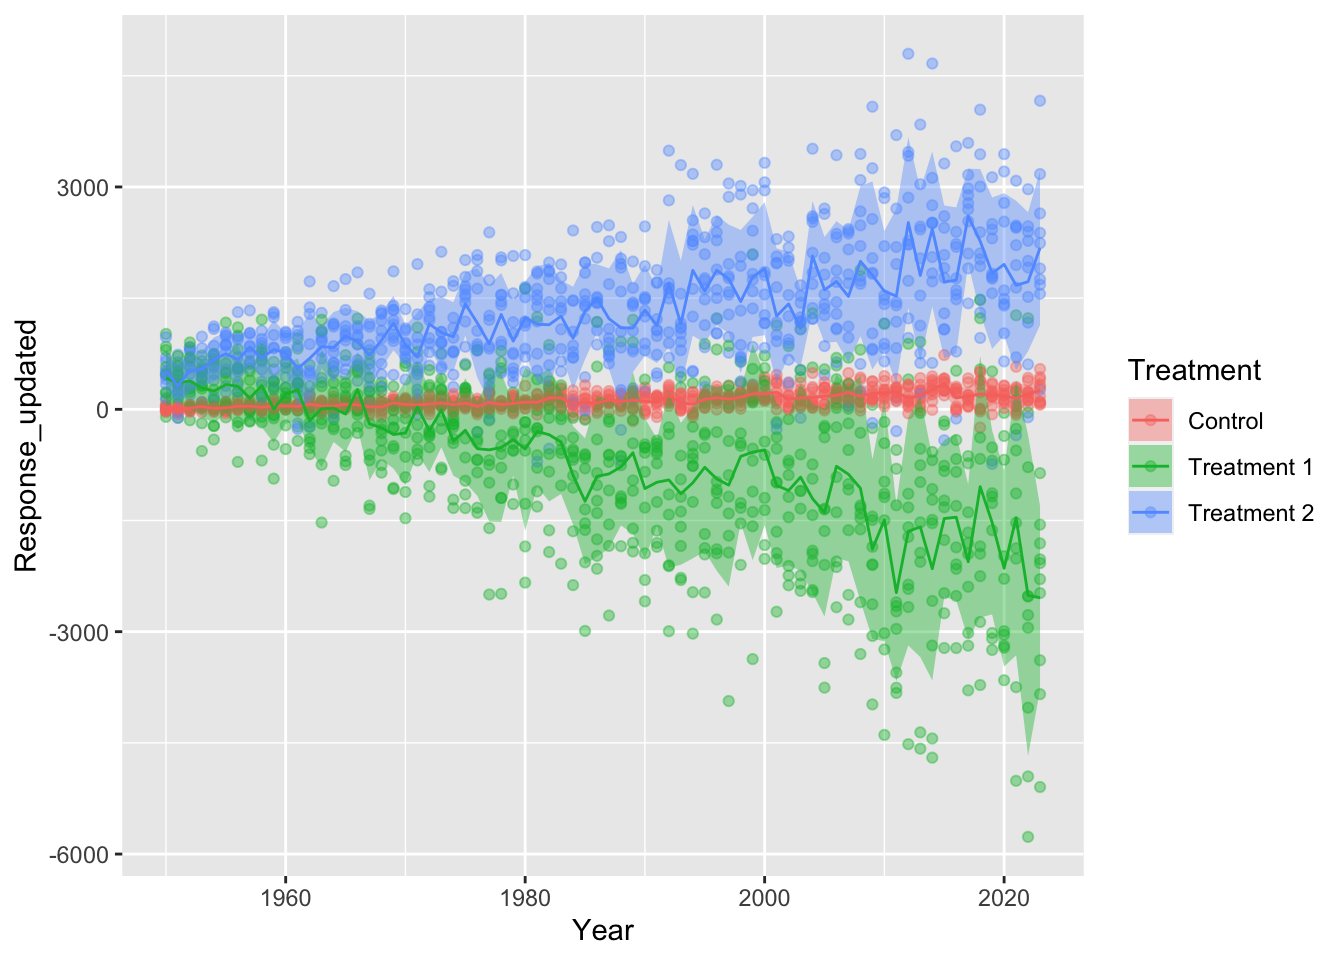
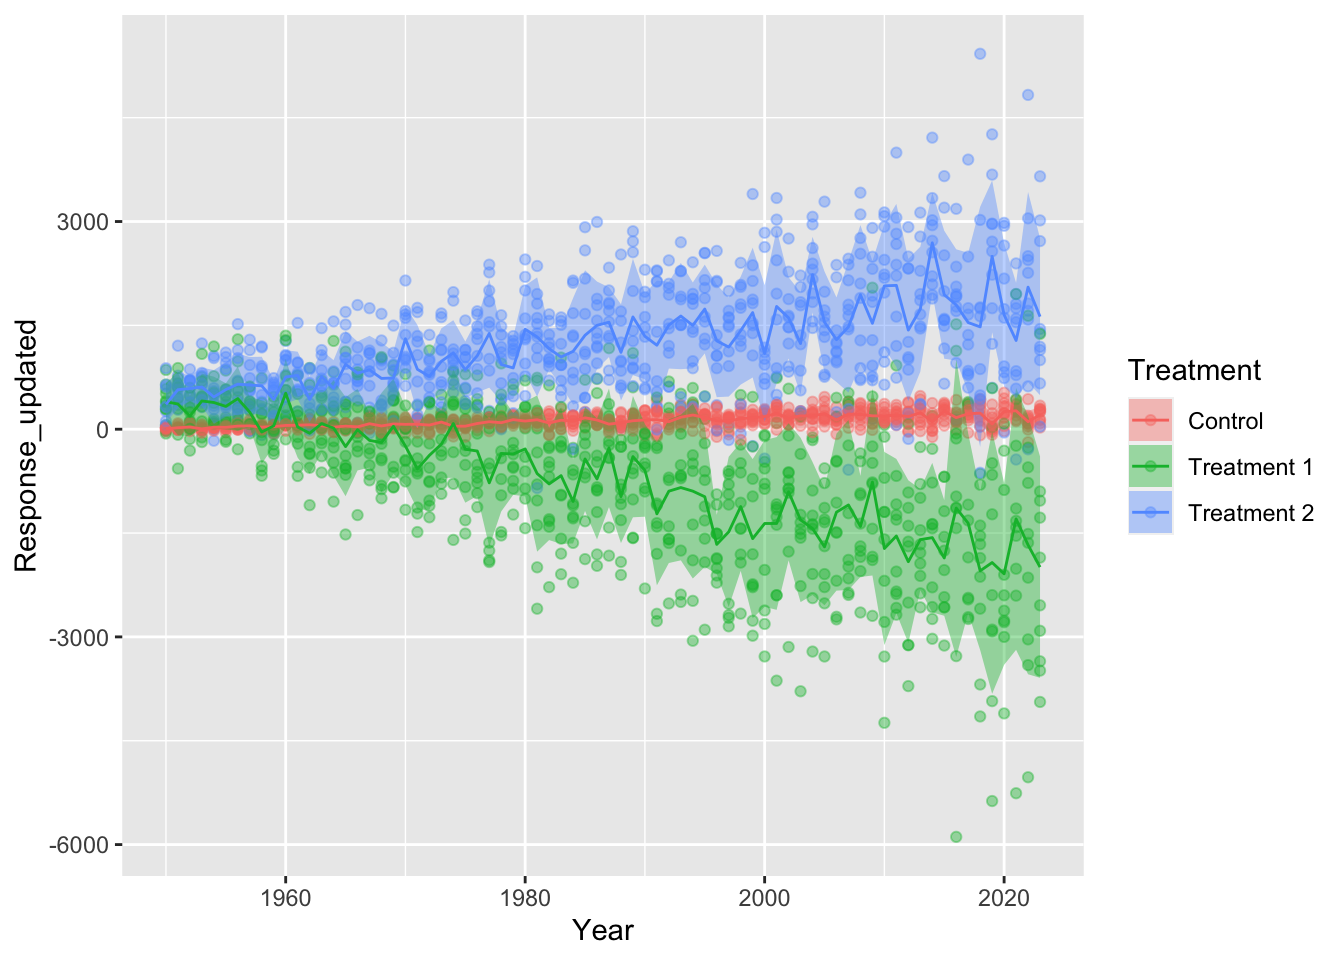
updating plotting

diff --git a/03_DataVisualisation.html b/03_DataVisualisation.html
@@ -2,7 +2,7 @@
 <html xmlns="http://www.w3.org/1999/xhtml" lang="en" xml:lang="en"><head>
 
 <meta charset="utf-8">
-<meta name="generator" content="quarto-1.3.433">
+<meta name="generator" content="quarto-1.3.450">
 
 <meta name="viewport" content="width=device-width, initial-scale=1.0, user-scalable=yes">
 
@@ -142,7 +142,11 @@ pre > code.sourceCode > span > a:first-child::before { text-decoration: underlin
 </div>
 <p>It automatically does a scatter plot, maybe we want to colour different treatments differently? and perhaps some axis labels that are more clear?</p>
 <div class="cell">
-<div class="sourceCode cell-code" id="cb4"><pre class="sourceCode r code-with-copy"><code class="sourceCode r"><span id="cb4-1"><a href="#cb4-1" aria-hidden="true" tabindex="-1"></a><span class="fu">plot</span>(<span class="at">x=</span>df<span class="sc">$</span>Year,<span class="at">y=</span>df<span class="sc">$</span>Response,<span class="at">col=</span>df<span class="sc">$</span>Treatment, <span class="at">xlab=</span><span class="st">"Year"</span>,<span class="at">ylab=</span><span class="st">"Response"</span>)</span></code><button title="Copy to Clipboard" class="code-copy-button"><i class="bi"></i></button></pre></div>
+<div class="sourceCode cell-code" id="cb4"><pre class="sourceCode r code-with-copy"><code class="sourceCode r"><span id="cb4-1"><a href="#cb4-1" aria-hidden="true" tabindex="-1"></a><span class="fu">plot</span>(<span class="at">x=</span>df<span class="sc">$</span>Year,</span>
+<span id="cb4-2"><a href="#cb4-2" aria-hidden="true" tabindex="-1"></a>     <span class="at">y=</span>df<span class="sc">$</span>Response,</span>
+<span id="cb4-3"><a href="#cb4-3" aria-hidden="true" tabindex="-1"></a>     <span class="at">col=</span>df<span class="sc">$</span>Treatment, </span>
+<span id="cb4-4"><a href="#cb4-4" aria-hidden="true" tabindex="-1"></a>     <span class="at">xlab=</span><span class="st">"Year"</span>,</span>
+<span id="cb4-5"><a href="#cb4-5" aria-hidden="true" tabindex="-1"></a>     <span class="at">ylab=</span><span class="st">"Response"</span>)</span></code><button title="Copy to Clipboard" class="code-copy-button"><i class="bi"></i></button></pre></div>
 <div class="cell-output-display">
 <p><img src="03_DataVisualisation_files/figure-html/unnamed-chunk-4-1.png" class="img-fluid" width="672"></p>
 </div>
@@ -152,21 +156,28 @@ pre > code.sourceCode > span > a:first-child::before { text-decoration: underlin
 <div class="cell">
 <div class="sourceCode cell-code" id="cb5"><pre class="sourceCode r code-with-copy"><code class="sourceCode r"><span id="cb5-1"><a href="#cb5-1" aria-hidden="true" tabindex="-1"></a>??<span class="fu">plot</span>()</span>
 <span id="cb5-2"><a href="#cb5-2" aria-hidden="true" tabindex="-1"></a></span>
-<span id="cb5-3"><a href="#cb5-3" aria-hidden="true" tabindex="-1"></a><span class="co"># plot is a common function name so we have to go to the base::plot() section of the help</span></span></code><button title="Copy to Clipboard" class="code-copy-button"><i class="bi"></i></button></pre></div>
+<span id="cb5-3"><a href="#cb5-3" aria-hidden="true" tabindex="-1"></a><span class="co"># plot is a common function name </span></span>
+<span id="cb5-4"><a href="#cb5-4" aria-hidden="true" tabindex="-1"></a><span class="co"># so we have to go to the base::plot() section of the help</span></span></code><button title="Copy to Clipboard" class="code-copy-button"><i class="bi"></i></button></pre></div>
 </div>
-<p>With the points coloured we should add a legend to the plot, this is accomplished with another function run after the plot function</p>
+<p>With the points coloured we should add a legend to the plot, this is accomplished with another function run after the plot function.</p>
 <div class="cell">
-<div class="sourceCode cell-code" id="cb6"><pre class="sourceCode r code-with-copy"><code class="sourceCode r"><span id="cb6-1"><a href="#cb6-1" aria-hidden="true" tabindex="-1"></a><span class="fu">plot</span>(<span class="at">x=</span>df<span class="sc">$</span>Year,<span class="at">y=</span>df<span class="sc">$</span>Response,<span class="at">col=</span><span class="fu">unique</span>(df<span class="sc">$</span>Treatment), <span class="at">xlab=</span><span class="st">"Year"</span>,<span class="at">ylab=</span><span class="st">"Response"</span>,<span class="at">pch=</span><span class="dv">19</span>)</span>
-<span id="cb6-2"><a href="#cb6-2" aria-hidden="true" tabindex="-1"></a><span class="fu">legend</span>(<span class="at">x =</span> <span class="st">"topright"</span>,          <span class="co"># Position</span></span>
-<span id="cb6-3"><a href="#cb6-3" aria-hidden="true" tabindex="-1"></a>       <span class="at">legend =</span> <span class="fu">unique</span>(df<span class="sc">$</span>Treatment),  <span class="co"># Legend texts</span></span>
-<span id="cb6-4"><a href="#cb6-4" aria-hidden="true" tabindex="-1"></a>       <span class="at">col =</span> <span class="fu">c</span>(<span class="dv">1</span>,<span class="dv">2</span>, <span class="dv">3</span>),           <span class="co"># point colors</span></span>
-<span id="cb6-5"><a href="#cb6-5" aria-hidden="true" tabindex="-1"></a>       <span class="at">pch=</span><span class="dv">19</span>)                    <span class="co"># point type</span></span></code><button title="Copy to Clipboard" class="code-copy-button"><i class="bi"></i></button></pre></div>
+<div class="sourceCode cell-code" id="cb6"><pre class="sourceCode r code-with-copy"><code class="sourceCode r"><span id="cb6-1"><a href="#cb6-1" aria-hidden="true" tabindex="-1"></a><span class="fu">plot</span>(<span class="at">x=</span>df<span class="sc">$</span>Year,</span>
+<span id="cb6-2"><a href="#cb6-2" aria-hidden="true" tabindex="-1"></a>     <span class="at">y=</span>df<span class="sc">$</span>Response,</span>
+<span id="cb6-3"><a href="#cb6-3" aria-hidden="true" tabindex="-1"></a>     <span class="at">col=</span><span class="fu">unique</span>(df<span class="sc">$</span>Treatment), </span>
+<span id="cb6-4"><a href="#cb6-4" aria-hidden="true" tabindex="-1"></a>     <span class="at">xlab=</span><span class="st">"Year"</span>,</span>
+<span id="cb6-5"><a href="#cb6-5" aria-hidden="true" tabindex="-1"></a>     <span class="at">ylab=</span><span class="st">"Response"</span>,</span>
+<span id="cb6-6"><a href="#cb6-6" aria-hidden="true" tabindex="-1"></a>     <span class="at">pch=</span><span class="dv">19</span>)</span>
+<span id="cb6-7"><a href="#cb6-7" aria-hidden="true" tabindex="-1"></a><span class="fu">legend</span>(<span class="at">x =</span> <span class="st">"topright"</span>,          <span class="co"># Position</span></span>
+<span id="cb6-8"><a href="#cb6-8" aria-hidden="true" tabindex="-1"></a>       <span class="at">legend =</span> <span class="fu">unique</span>(df<span class="sc">$</span>Treatment),  <span class="co"># Legend texts</span></span>
+<span id="cb6-9"><a href="#cb6-9" aria-hidden="true" tabindex="-1"></a>       <span class="at">col =</span> <span class="fu">c</span>(<span class="dv">1</span>,<span class="dv">2</span>, <span class="dv">3</span>),           <span class="co"># point colors</span></span>
+<span id="cb6-10"><a href="#cb6-10" aria-hidden="true" tabindex="-1"></a>       <span class="at">pch=</span><span class="dv">19</span>)                    <span class="co"># point type</span></span></code><button title="Copy to Clipboard" class="code-copy-button"><i class="bi"></i></button></pre></div>
 <div class="cell-output-display">
 <p><img src="03_DataVisualisation_files/figure-html/unnamed-chunk-6-1.png" class="img-fluid" width="672"></p>
 </div>
 </div>
-<p>Here we can see that the response is totally random, regardless of treatment and year</p>
+<p>Here we can see that the response is totally random, regardless of treatment and year.</p>
 <p>For interesting plotting we can change this, we can add patterns and jitter (random noise) to our data based on its treatment.</p>
+<p>We will use some of our data manipulation code to do this.</p>
 <div class="cell">
 <div class="sourceCode cell-code" id="cb7"><pre class="sourceCode r code-with-copy"><code class="sourceCode r"><span id="cb7-1"><a href="#cb7-1" aria-hidden="true" tabindex="-1"></a><span class="fu">library</span>(tidyverse)</span></code><button title="Copy to Clipboard" class="code-copy-button"><i class="bi"></i></button></pre></div>
 <div class="cell-output cell-output-stderr">
@@ -182,9 +193,10 @@ pre > code.sourceCode > span > a:first-child::before { text-decoration: underlin
 ℹ Use the conflicted package (&lt;http://conflicted.r-lib.org/&gt;) to force all conflicts to become errors</code></pre>
 </div>
 <div class="sourceCode cell-code" id="cb9"><pre class="sourceCode r code-with-copy"><code class="sourceCode r"><span id="cb9-1"><a href="#cb9-1" aria-hidden="true" tabindex="-1"></a>df_1<span class="ot">&lt;-</span>df <span class="sc">%&gt;%</span> </span>
-<span id="cb9-2"><a href="#cb9-2" aria-hidden="true" tabindex="-1"></a>  <span class="fu">mutate</span>(<span class="at">Response_updated=</span><span class="fu">case_when</span>(Treatment<span class="sc">==</span><span class="st">"Control"</span><span class="sc">~</span><span class="fu">jitter</span>(Response)<span class="sc">*</span>((Year<span class="dv">-1930</span>)<span class="sc">/</span><span class="dv">5</span>)<span class="sc">-</span><span class="dv">50</span>,</span>
-<span id="cb9-3"><a href="#cb9-3" aria-hidden="true" tabindex="-1"></a>                                    Treatment<span class="sc">==</span><span class="st">"Treatment 1"</span><span class="sc">~</span><span class="fu">jitter</span>(Response)<span class="sc">*</span>((Year<span class="dv">-1930</span>)<span class="sc">*-</span><span class="dv">2</span>)<span class="sc">+</span><span class="dv">1000</span>,</span>
-<span id="cb9-4"><a href="#cb9-4" aria-hidden="true" tabindex="-1"></a>                                    Treatment<span class="sc">==</span><span class="st">"Treatment 2"</span><span class="sc">~</span><span class="fu">jitter</span>(Response)<span class="sc">*</span>((Year<span class="dv">-1930</span>)<span class="sc">*</span><span class="fl">1.5</span>)<span class="sc">-</span><span class="dv">4</span>))</span></code><button title="Copy to Clipboard" class="code-copy-button"><i class="bi"></i></button></pre></div>
+<span id="cb9-2"><a href="#cb9-2" aria-hidden="true" tabindex="-1"></a>  <span class="fu">mutate</span>(<span class="at">Response_updated=</span><span class="fu">case_when</span>(</span>
+<span id="cb9-3"><a href="#cb9-3" aria-hidden="true" tabindex="-1"></a>    Treatment<span class="sc">==</span><span class="st">"Control"</span><span class="sc">~</span><span class="fu">jitter</span>(Response)<span class="sc">*</span>((Year<span class="dv">-1930</span>)<span class="sc">/</span><span class="dv">5</span>)<span class="sc">-</span><span class="dv">50</span>,</span>
+<span id="cb9-4"><a href="#cb9-4" aria-hidden="true" tabindex="-1"></a>    Treatment<span class="sc">==</span><span class="st">"Treatment 1"</span><span class="sc">~</span><span class="fu">jitter</span>(Response)<span class="sc">*</span>((Year<span class="dv">-1930</span>)<span class="sc">*-</span><span class="dv">2</span>)<span class="sc">+</span><span class="dv">1000</span>,</span>
+<span id="cb9-5"><a href="#cb9-5" aria-hidden="true" tabindex="-1"></a>    Treatment<span class="sc">==</span><span class="st">"Treatment 2"</span><span class="sc">~</span><span class="fu">jitter</span>(Response)<span class="sc">*</span>((Year<span class="dv">-1930</span>)<span class="sc">*</span><span class="fl">1.5</span>)<span class="sc">-</span><span class="dv">4</span>))</span></code><button title="Copy to Clipboard" class="code-copy-button"><i class="bi"></i></button></pre></div>
 </div>
 <p>We can now calculate some summary statistics such as mean or standard deviation using group_by and summarise</p>
 <div class="cell">
@@ -198,9 +210,9 @@ pre > code.sourceCode > span > a:first-child::before { text-decoration: underlin
 <pre><code># A tibble: 3 × 3
   Treatment   MeanResponse SDResponse
   &lt;fct&gt;              &lt;dbl&gt;      &lt;dbl&gt;
-1 Control             118.       122.
-2 Treatment 1        -717.      1221.
-3 Treatment 2        1308.       859.</code></pre>
+1 Control             121.       114.
+2 Treatment 1        -735.      1167.
+3 Treatment 2        1248.       859.</code></pre>
 </div>
 <div class="sourceCode cell-code" id="cb12"><pre class="sourceCode r code-with-copy"><code class="sourceCode r"><span id="cb12-1"><a href="#cb12-1" aria-hidden="true" tabindex="-1"></a>df_1_summary_year<span class="ot">&lt;-</span>df_1 <span class="sc">%&gt;%</span> </span>
 <span id="cb12-2"><a href="#cb12-2" aria-hidden="true" tabindex="-1"></a>  <span class="fu">group_by</span>(Treatment,Year) <span class="sc">%&gt;%</span> </span>
@@ -216,16 +228,16 @@ pre > code.sourceCode > span > a:first-child::before { text-decoration: underlin
 # Groups:   Treatment [3]
    Treatment  Year MeanResponse SDResponse
    &lt;fct&gt;     &lt;dbl&gt;        &lt;dbl&gt;      &lt;dbl&gt;
- 1 Control    1950         6.01       33.7
- 2 Control    1951        -2.66       31.3
- 3 Control    1952        16.1        33.5
- 4 Control    1953        37.3        37.9
- 5 Control    1954        11.9        28.0
- 6 Control    1955        19.6        49.8
- 7 Control    1956        40.7        40.5
- 8 Control    1957        41.9        36.0
- 9 Control    1958        27.1        41.4
-10 Control    1959        46.3        41.5
+ 1 Control    1950         4.81       20.7
+ 2 Control    1951        21.4        32.3
+ 3 Control    1952        31.0        36.1
+ 4 Control    1953         5.16       34.5
+ 5 Control    1954        28.1        27.8
+ 6 Control    1955        27.2        40.5
+ 7 Control    1956        44.9        46.5
+ 8 Control    1957        48.7        50.5
+ 9 Control    1958        29.8        28.8
+10 Control    1959        37.8        57.6
 # ℹ 212 more rows</code></pre>
 </div>
 </div>
